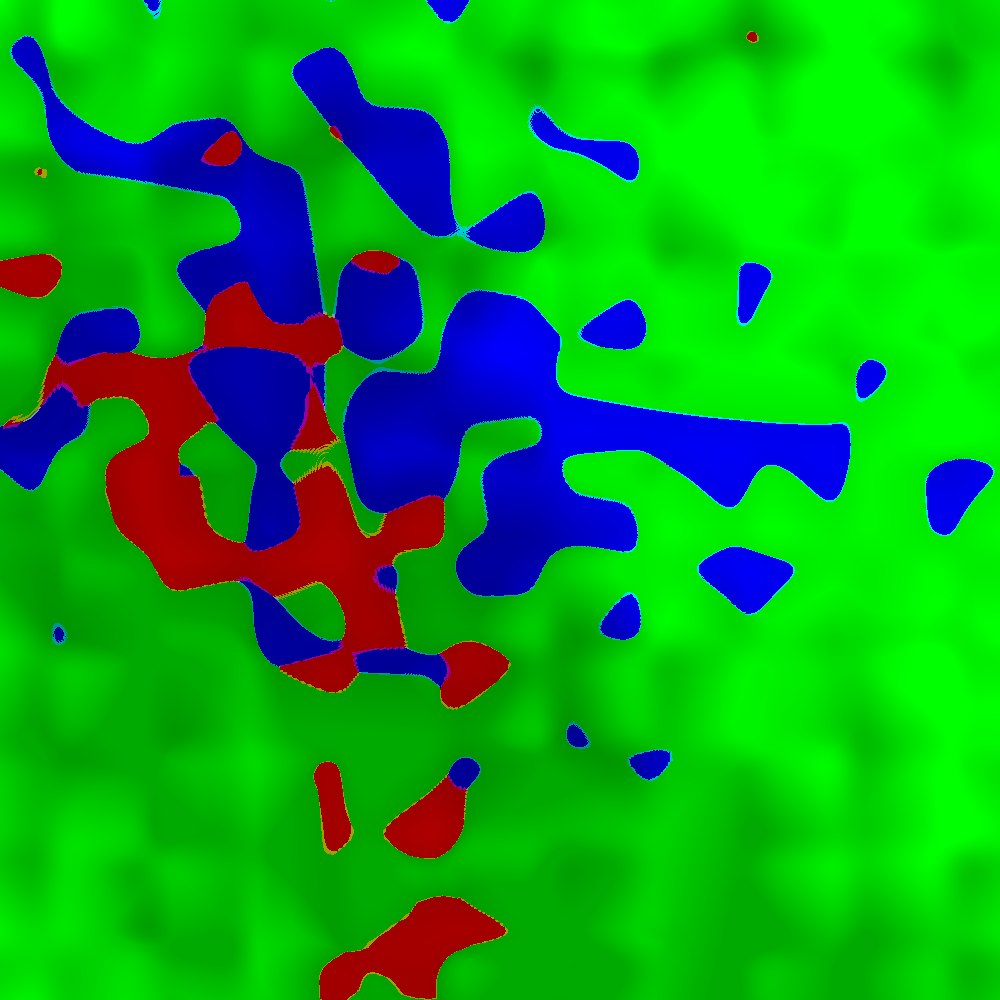
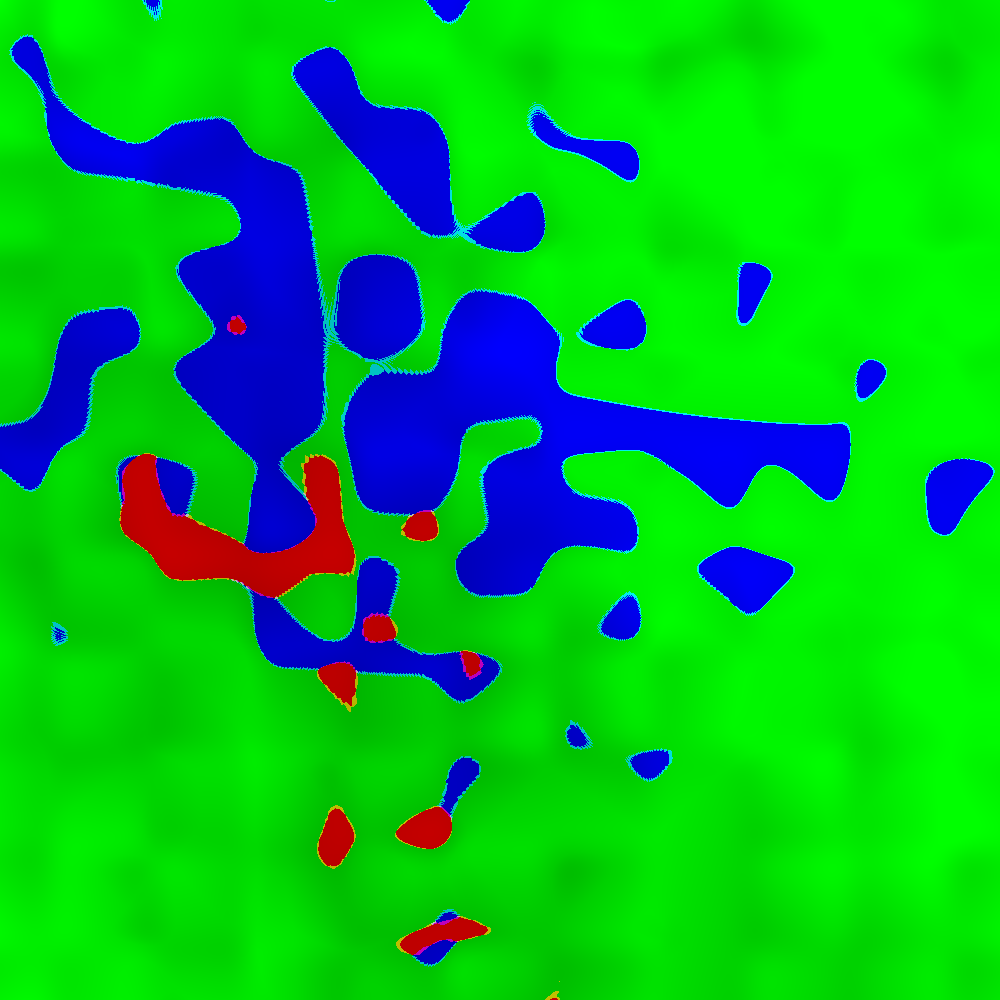
alt

diff --git a/lib/src/test/java/procedural_generation/Biomes1Test.java b/lib/src/test/java/procedural_generation/Biomes1Test.java
@@ -88,24 +88,24 @@ public class Biomes1Test {
         }
 
         HashMap<ClimatRule, ClimatMinMax> climatMinMaxes1 = new HashMap<>();
-        climatMinMaxes1.put(wind, new ClimatMinMax(0.4, 0.5, 0.2));
-        climatMinMaxes1.put(temperature, new ClimatMinMax(0.4, 0.5, 0.1));
-        climatMinMaxes1.put(humidity, new ClimatMinMax(0.5, 0.7, 0.1));
+        climatMinMaxes1.put(wind, new ClimatMinMax(0.4, 0.5, 0.3));
+        climatMinMaxes1.put(temperature, new ClimatMinMax(0.4, 0.5, 0.2));
+        climatMinMaxes1.put(humidity, new ClimatMinMax(0.5, 0.7, 0.2));
         Biome plaine = new SimpleBiome(0.51, "plaine", climatMinMaxes1);
         biomes.add(plaine);
 
         HashMap<ClimatRule, ClimatMinMax> climatMinMaxes2 = new HashMap<>();
-        climatMinMaxes2.put(wind, new ClimatMinMax(0.5, 0.6, 0.4));
-        climatMinMaxes2.put(temperature, new ClimatMinMax(0.8, 0.9, 0.3));
-        climatMinMaxes2.put(humidity, new ClimatMinMax(0.0, 0.4, 0.2));
+        climatMinMaxes2.put(wind, new ClimatMinMax(0.5, 0.6, 0.5));
+        climatMinMaxes2.put(temperature, new ClimatMinMax(0.8, 0.9, 0.4));
+        climatMinMaxes2.put(humidity, new ClimatMinMax(0.0, 0.4, 0.3));
         Biome desert = new SimpleBiome(0.6, "desert", climatMinMaxes2);
         biomes.add(desert);
 
         HashMap<ClimatRule, ClimatMinMax> climatMinMaxes3 = new HashMap<>();
-        climatMinMaxes3.put(wind, new ClimatMinMax(0.6, 0.8, 0.2));
-        climatMinMaxes3.put(temperature, new ClimatMinMax(0.2, 0.5, 0.1));
-        climatMinMaxes3.put(humidity, new ClimatMinMax(0.5, 0.7, 0.1));
-        Biome montagne = new SimpleBiome(0.9, "montagne", climatMinMaxes3);
+        climatMinMaxes3.put(wind, new ClimatMinMax(0.6, 0.8, 0.3));
+        climatMinMaxes3.put(temperature, new ClimatMinMax(0.2, 0.5, 0.2));
+        climatMinMaxes3.put(humidity, new ClimatMinMax(0.5, 0.7, 0.2));
+        Biome montagne = new SimpleBiome(0.8, "montagne", climatMinMaxes3);
         biomes.add(montagne);
 
         ComplexNoise complexNoise = complexNoiseBuilder.build(0);
@@ -178,7 +178,7 @@ public class Biomes1Test {
         BufferedImage alt = new BufferedImage(width, high, BufferedImage.TYPE_INT_RGB);
         for (int x = 0; x < width; x++) {
             for (int y = 0; y < high; y++) {
-                int color = (int) (ValueOperation.REMOVE_POURCENT.apply(biomesManager.getFinalAltitude(x, y), 0.2) * 255);
+                int color = (int) (ValueOperation.REMOVE_POURCENT.apply(biomesManager.getFinalAltitude(x, y), 0.1) * 255);
                 int blue = 0;
                 int green = 0;
                 int red = 0;

diff --git a/lib/src/main/java/procedural_generation/biomes/BiomesManager.java b/lib/src/main/java/procedural_generation/biomes/BiomesManager.java
@@ -53,7 +53,7 @@ public class BiomesManager {
         HashMap<Biome, Double> biomePourcent = getBiome(x, y, currentAltitude);
         // select the biome with the highest pourcent
         Biome biome0 = null;
-        double biomePourcentValue = 0.2;
+        double biomePourcentValue = 0.5;
         for (Biome biome1 : biomePourcent.keySet()) {
             if (biomePourcent.get(biome1) > biomePourcentValue) {
                 biomePourcentValue = biomePourcent.get(biome1);
@@ -68,12 +68,12 @@ public class BiomesManager {
         }
         double finalAltitude = currentAltitude;
         for (Biome biome : biomePourcent.keySet()) {
-            finalAltitude += biome.getAltitude(x, y, currentAltitude) * biomePourcent.get(biome) * 4;
+            finalAltitude += biome.getAltitude(x, y, currentAltitude) * biomePourcent.get(biome);
         }
         // divide by the sum of all pourcent
         double sum = 1;
         for (double pourcent : biomePourcent.values()) {
-            sum += pourcent * 4;
+            sum += pourcent;
         }
         return finalAltitude / sum;
     }
